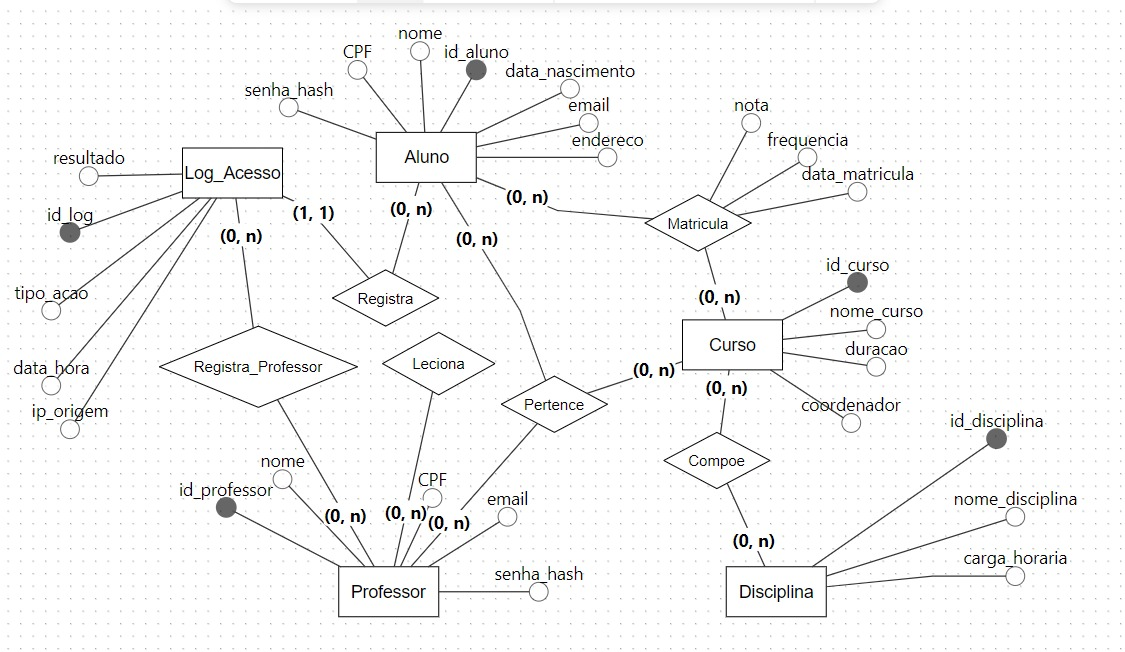
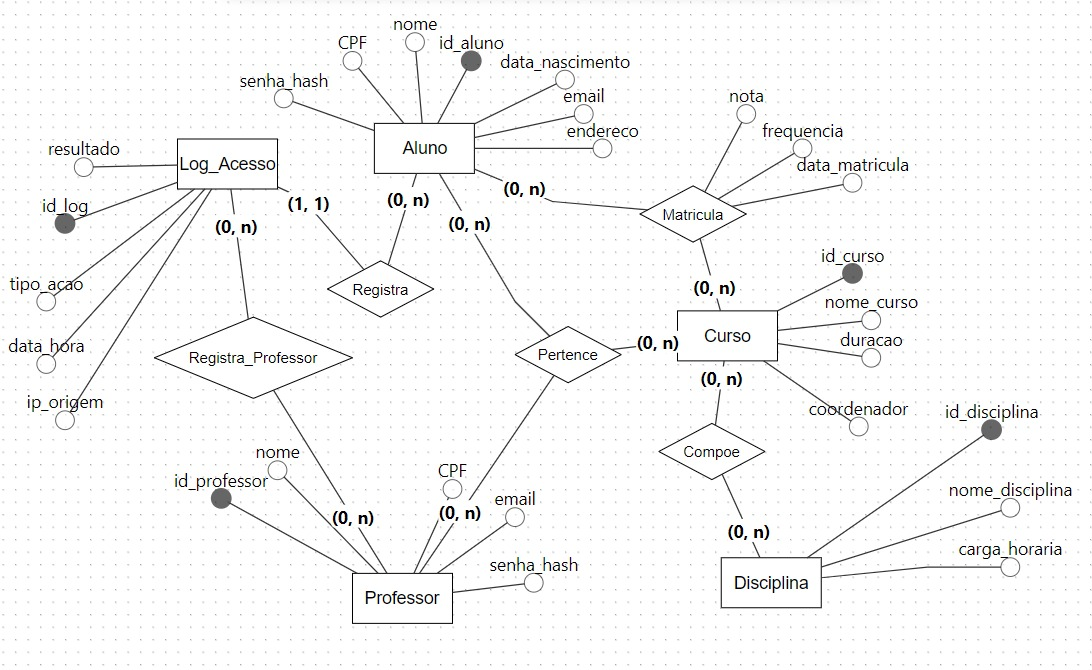
adciona imagem

diff --git a/README.md b/README.md
@@ -44,8 +44,6 @@ Exemplos de campos úteis para auditoria:
 
 ## 2. Laboratório Prático
 
-![Modelo Conceitual](ModeloDeNegocios.jpeg)
-
 O laboratório permitiu compreender, na prática, como a segurança pode ser aplicada em um banco de dados — principalmente por meio de permissões de acesso, proteção de informações e registro das alterações realizadas.
 
 A principal conclusão foi a de que não basta apenas criar as tabelas e inserir os dados; é necessário também definir **quem pode acessar cada informação** e **o que cada usuário está autorizado a fazer**.
@@ -66,8 +64,22 @@ A principal conclusão foi a de que não basta apenas criar as tabelas e inserir
 |-----------|----------------|
 | Professor | Alterações em notas precisam ser registradas para identificar quem realizou a alteração e em que momento ela ocorreu. |
 
+### 3.3 Dados Sensíveis e Logs de Acesso
+
+As tabelas **Aluno** e **Professor** concentram os dados que exigem mais cuidado, como `cpf`, `senha_hash` e `email` — informações pessoais e de login. As senhas devem ficar armazenadas apenas em formato de hash, para que não fiquem expostas em caso de acesso indevido ao banco.
+
+Para acompanhar o que acontece no sistema, a tabela **Log_Acesso** registra cada ação realizada, com data, hora, IP de origem e resultado, facilitando a investigação de qualquer acesso suspeito. A tabela **Matrícula** também merece atenção, já que guarda dados como `nota` e `frequencia`, importantes para o histórico acadêmico do aluno.
+
+Com esses controles, fica mais fácil proteger as informações e identificar quem acessou ou alterou algo no sistema.
+
 ---
 
-## 4. Referência Bibliográfica
+## 4. Modelo do Banco de Dados
+
+![Modelo do Banco de Dados](ModeloDeNegocios.jpeg)
+
+---
+
+## 5. Referência Bibliográfica
 
 HEUSER, Carlos Alberto. **Projeto de Banco de Dados**. Bookman.
